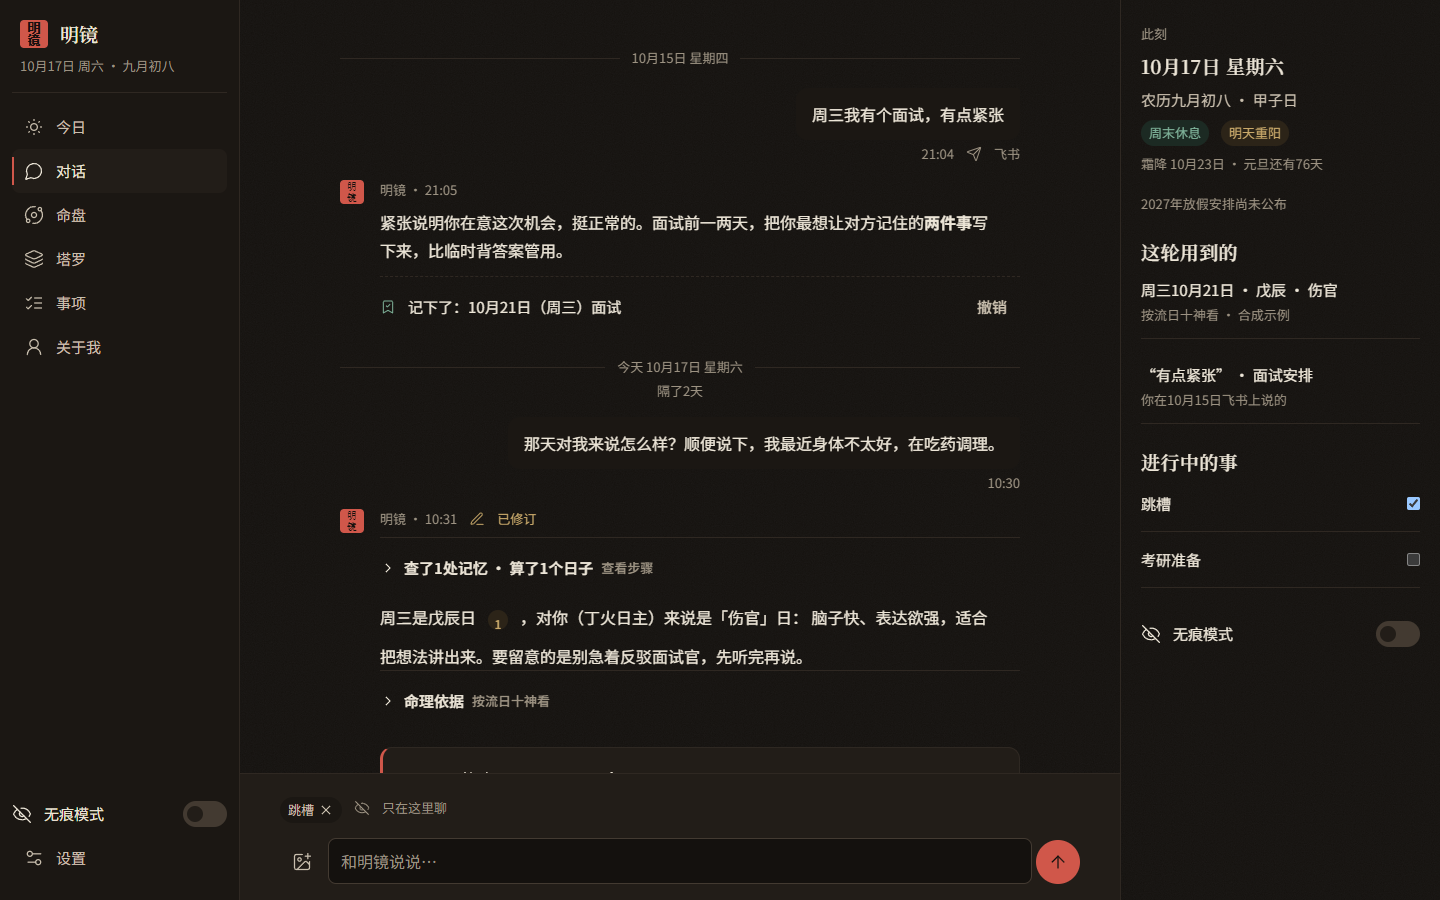
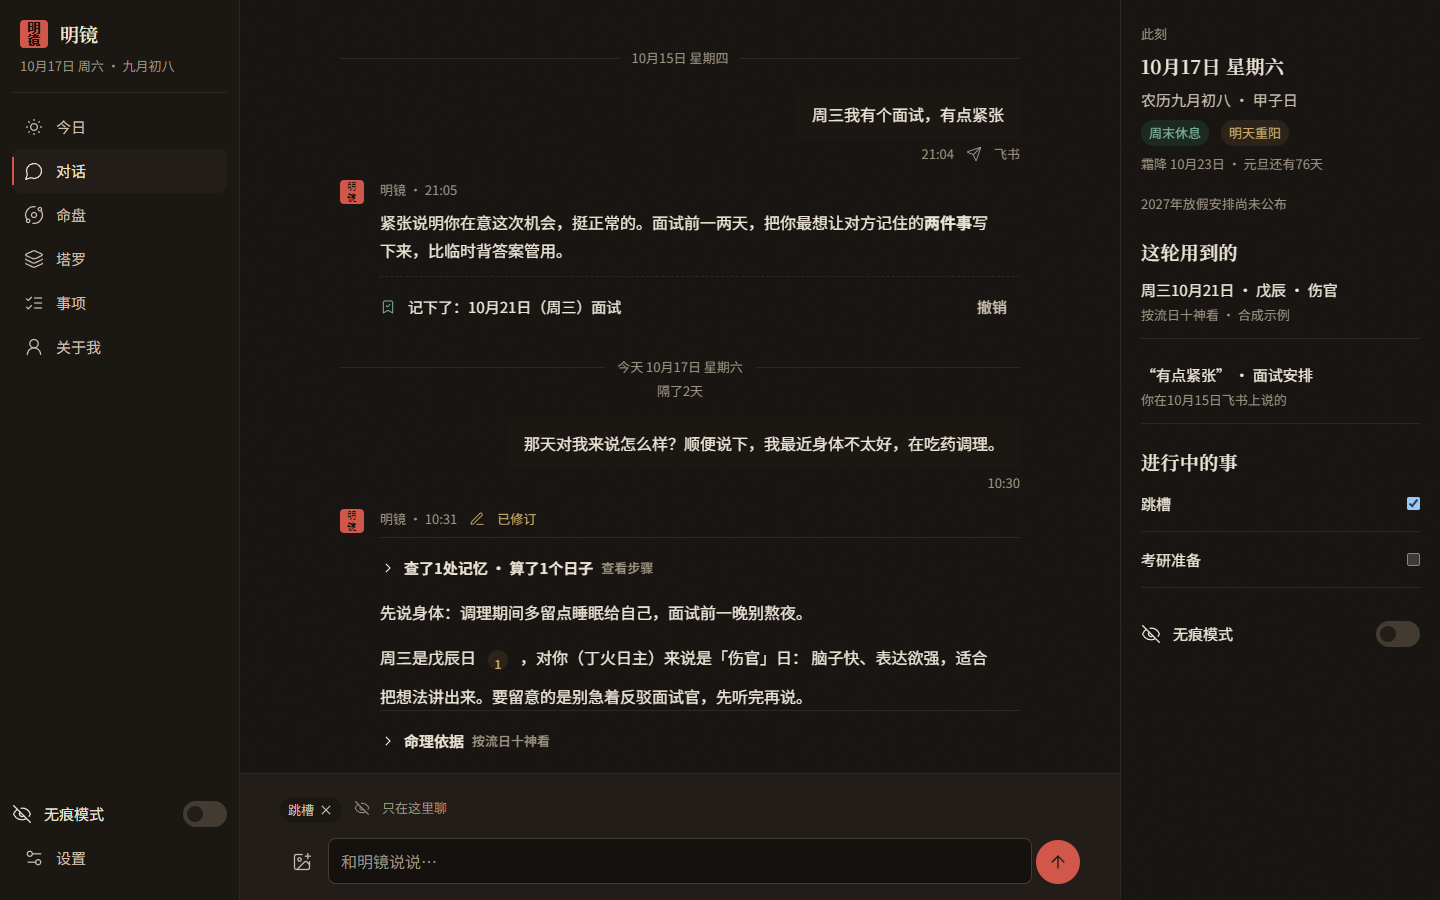
P10: restore practical context before symbolic static interpretation

Changed region(s): [[0.25, 0.6533, 0.6875, 0.84]]

diff --git a/web/tests/components.test.tsx b/web/tests/components.test.tsx
@@ -7,10 +7,17 @@ import { Markdown } from '../src/components/Markdown';
 import { AskCard, Composer, DecisionCard, MemoryReceipt, ToolStatusLine } from '../src/components/Messages';
 import { CardPicker, RevealSpread, SpreadLayout } from '../src/components/TarotCards';
 import Tarot from '../src/pages/Tarot';
+import Chat from '../src/pages/Chat';
 import { useUi } from '../src/state';
 import backAsset from '../../static/tarot/back.svg';
 
 describe('M1 component contracts', () => {
+  it('keeps the reference reality-first paragraph before the symbolic chat example', () => {
+    render(<Chat />);
+    const reality = screen.getByText('先说身体：调理期间多留点睡眠给自己，面试前一晚别熬夜。');
+    const symbolic = screen.getByText(/周三是戊辰日/);
+    expect(reality.compareDocumentPosition(symbolic) & Node.DOCUMENT_POSITION_FOLLOWING).toBeTruthy();
+  });
   it('keeps the loading label and prevents duplicate activation', async () => {
     const click = vi.fn();
     render(

diff --git a/web/src/pages/Chat.tsx b/web/src/pages/Chat.tsx
@@ -34,6 +34,7 @@ export default function Chat() {
               <UserMessage time="10:30">那天对我来说怎么样？顺便说下，我最近身体不太好，在吃药调理。</UserMessage>
               <AssistantMessage revised>
                 <ToolStatusLine />
+                <p>先说身体：调理期间多留点睡眠给自己，面试前一晚别熬夜。</p>
                 <p>
                   周三是戊辰日
                   <CitationChip />

diff --git a/docs/v4/receipts/P10_M1_M2.md b/docs/v4/receipts/P10_M1_M2.md
@@ -1,6 +1,6 @@
 # P10 阶段回执（夜间 WS3，仅 M1/M2）
 
-- 分支 / 最后实现提交：`v4/p10-frontend @ eebf7a4e1919bb68674a688a42a1bdb07ed5d0cf`；远端等价树提交`4b4451eee6cb5322fa3224dad65738a91a1666f4`，tree `fb3efc7941aa1b26b7274040b895d38fb79c1c76`。PR：[草稿 #6](https://github.com/JerryandShawn/zhiming/pull/6)，目标`v4/main`，未合并。此后仅文档/脚本证据提交另见PR头。
+- 分支 / 首版实现提交：`v4/p10-frontend @ eebf7a4e1919bb68674a688a42a1bdb07ed5d0cf`；远端等价树提交`4b4451eee6cb5322fa3224dad65738a91a1666f4`，tree `fb3efc7941aa1b26b7274040b895d38fb79c1c76`。PR：[草稿 #6](https://github.com/JerryandShawn/zhiming/pull/6)，目标`v4/main`，未合并。此后文档/脚本证据及本次现实前置句核对提交另见PR头，最终代码头的CI另行确认。
 - ExecPlan：[P10_frontend.md](../execplans/P10_frontend.md)
 - 范围依据：用户 `13_夜间并行指令.md` 授权 M1/M2 静态实现；不宣称完整 P10 完成。
 
@@ -9,7 +9,8 @@
 - [x] M1 token、双主题、字体、基础控件、浮层、消息/回执/提问/决策、时间、命盘与塔罗组件；内部 `#/__design` 覆盖状态。证据：`web/src/`、16 张 [组件/浮层截图](../evidence/P10/components/)。
 - [x] M2 七主页面与静态报告子视图、旧深链、手机/桌面布局、本地表单及键盘操作。证据：`web/src/pages/`、[56 张原图](../evidence/P10/screenshots/)。
 - [x] 打开并保存未经修改的参考稿，双主题 24 张；七页 × 四视口 × 两主题共 56 张并排比较。证据：[参考](../evidence/P10/reference/)、[比较与逐页自评](../evidence/P10/visual-review.md)。
-- [x] TypeScript strict/type/lint/build、19 项单测（含一张/五张塔罗本地连续流程）、70 项 Playwright、旧前端六项检查通过。证据：[checks.md](../evidence/P10/checks.md)。
+- [x] TypeScript strict/type/lint/build、20 项单测（含一张/五张塔罗本地连续流程与对话现实段落顺序）、70 项 Playwright通过；旧前端六项证据保留。证据：[checks.md](../evidence/P10/checks.md)。
+- [x] 对照08b恢复桌面对话已有“先说身体”原句，先于流日解释；仅修静态内容，完整矩阵重拍。
 - [x] 202 个本地字体文件共 10,531,532 字节，低于 15MB；两份 OFL 与哈希清单随仓库提交，无运行时 CDN。
 - [x] 56 份自动审计：AA 违规/页面错误/违规小字/外域请求/API 请求/页面横向溢出均为 0。
 - [ ] 08 §10 的朱砂“一屏 ≤3 处”口径尚未满足；与品牌、助手印章、活动导航和命盘语义色的要求冲突，明确交大脑定夺，未冒充全绿。
@@ -20,7 +21,7 @@
 
 - root在发布后补本分支脚本模式80/80、自检48/48（19.76秒）；报告`docs/v4/evidence/P10/scripted/2026-10-18-scripted-fake-scripted-v1.json/md`。这只验证框架回放，不生成模型能力分数；原P0基线不变。业务实测未运行。
 - 本分支实际模型调用：0；后端/API 请求：0。静态示例不当作真实模型结果或保存成功。
-- 前端：19/19 单测、70/70 浏览器测试、旧前端 6/6。新工程生产依赖审计报告 0 漏洞，不代表旧工程存量问题已修复。
+- 前端：20/20 单测、70/70 浏览器测试；原旧前端 6/6证据保留。新工程生产依赖审计报告 0 漏洞，不代表旧工程存量问题已修复。
 
 ## 改了哪些关键文件
 

diff --git a/docs/v4/evidence/P10/checks.md b/docs/v4/evidence/P10/checks.md
@@ -6,9 +6,9 @@
 | --- | --- |
 | `npm run typecheck` | 通过，TypeScript strict |
 | `npm run lint` | 通过 |
-| `npm test` | 19/19，3.45 秒（含一张/五张本地连续流程） |
-| `npm run build` | 通过，1.74 秒 |
-| `npm run test:e2e` | 70/70，57.5 秒；修复本地塔罗状态后重拍矩阵 |
+| `npm test` | 20/20，3.61 秒（含本地连续流程及现实段落先后顺序） |
+| `npm run build` | 通过，1.73 秒 |
+| `npm run test:e2e` | 70/70，57.9 秒；恢复参考现实前置句后重拍完整矩阵 |
 | `node scripts/compare.mjs` | 56 张并排比较生成并保留 |
 | 旧前端六项检查 | 6/6，详见 [legacy-frontend.json](legacy-frontend.json) |
 | root补充分支脚本回放/自检 | 80/80；48/48（19.76秒），[报告](scripted/2026-10-18-scripted-fake-scripted-v1.md)；无真实调用 |
@@ -31,5 +31,7 @@ Vite 构建入口 gzip 28.56kB，React 45.31kB，今日路由及日历合计约 
 实际模型调用0、API请求0；没有真实资料、数据库、飞书、服务配置、stage或生产操作。旧前端六项通过；root补本分支脚本回放80/80与自检48/48，保留P0原报告。Python/PG旧Core由本分支远端Core CI验证；静态界面不冒充模型能力成绩。P10专属CI为[frontend-v4.yml](../../../../.github/workflows/frontend-v4.yml)，最终状态由夜间汇总绑定具体头；本机通过不表示远端已绿。
 
 本地塔罗连续回归从输入问题、选择一张/五张牌阵、A/B、禁用逆位、点选、揭牌到解读/返回编辑，验证数量和输入持续保留。抽法偏好仅保留为本地设置，界面明确说明不会执行真实随机或实体牌录入；牌面始终为固定合成样例，不生成针对新问题的解读。
+
+2026-10-18 M2内容核对：恢复08b桌面对话已有“先说身体”原句，位于流日解释前；新增DOM顺序回归，未新增医疗指导、未改运行时提示词。保留1bc5a7b追加的发布/脚本证据；本次仅重验前端与重新生成截图，不把先前脚本报告标为重新执行。
 
 旧工程审计和 Ruff 存量问题不在本改动中修复。M3/M4/M5、真实流式逐句播报、身份隔离与写操作端到端、飞书容器和真机仍未验证。

diff --git a/docs/v4/evidence/P10/visual-review.md b/docs/v4/evidence/P10/visual-review.md
@@ -36,6 +36,7 @@
 - [x] 夜墨可读，AA 通过。
 - [x] 工具状态行、已完成折叠和减少动效有样式/交互检查；真实流式未接。
 - [x] 记忆回执、提问卡、决策卡及引用浮层遵循 §5.1，本地选择后只读。
+- [x] 桌面对话参考已有的“先说身体”现实前置句已原文恢复，先于流日说明；顺序回归和完整截图矩阵重验通过。
 - [x] [375 宣纸并排](compare/chat-light-375.png) / [1440 夜墨并排](compare/chat-dark-1440.png)，修复桌面额外内边距后重拍。
 
 ## 命盘
